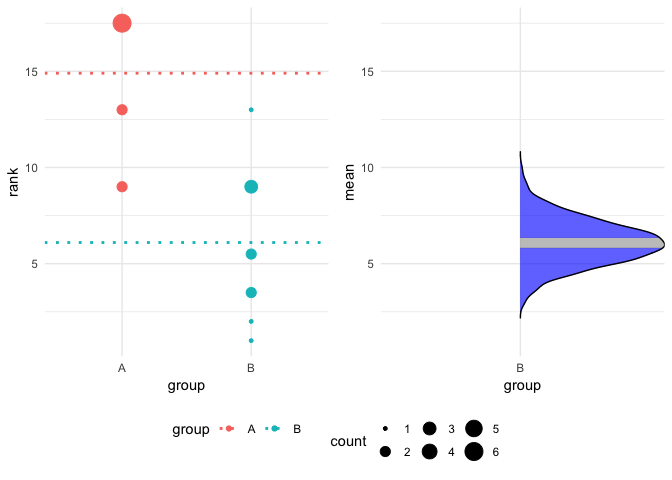
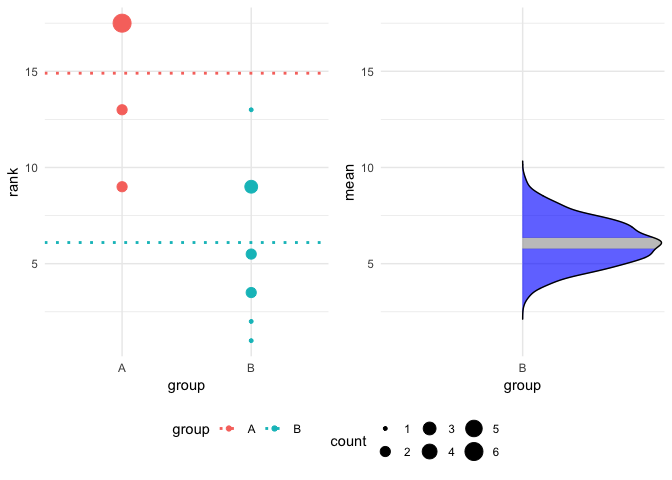
fix readme

diff --git a/Readme.md b/Readme.md
@@ -4,7 +4,7 @@ Dan MacLean
 12/06/2019
 
 <!-- badges: start --> ![Travis build
-status](https://travis-ci.org/TeamMacLean/besthr.svg?branch=master)\](<https://travis-ci.org/TeamMacLean/besthr>)
+status](https://travis-ci.org/TeamMacLean/besthr.svg?branch=master)
 
 <!-- badges: end -->
 
@@ -52,7 +52,7 @@ hr_est_1
     ## Unpaired mean rank difference of A (14.9, n=10) minus B (6.1, n=10)
     ##  8.8
     ## Confidence Intervals (0.025, 0.975)
-    ##  4.3475, 8.32625
+    ##  3.795, 7.52625
     ## 
     ## 100 bootstrap resamples.
 
@@ -60,7 +60,7 @@ hr_est_1
 plot(hr_est_1)
 ```
 
-    ## Picking joint bandwidth of 0.397
+    ## Picking joint bandwidth of 0.361
 
 ![](Readme_files/figure-gfm/unnamed-chunk-1-1.png)<!-- -->
 
@@ -125,7 +125,7 @@ hr_est_1
     ## Unpaired mean rank difference of A (14.9, n=10) minus B (6.1, n=10)
     ##  8.8
     ## Confidence Intervals (0.025, 0.975)
-    ##  3.9475, 8.7075
+    ##  3.77375, 8.255
     ## 
     ## 100 bootstrap resamples.
 
@@ -133,7 +133,7 @@ hr_est_1
 plot(hr_est_1)
 ```
 
-    ## Picking joint bandwidth of 0.459
+    ## Picking joint bandwidth of 0.414
 
 ![](Readme_files/figure-gfm/unnamed-chunk-3-1.png)<!-- -->
 
@@ -147,7 +147,7 @@ estimate(hr_data_1, score, group, control = "B" ) %>%
   plot()
 ```
 
-    ## Picking joint bandwidth of 0.374
+    ## Picking joint bandwidth of 0.412
 
 ![](Readme_files/figure-gfm/unnamed-chunk-4-1.png)<!-- -->
 
@@ -160,7 +160,7 @@ estimate(hr_data_1, score, group, control = "A", nits = 1000, low = 0.4, high = 
   plot()
 ```
 
-    ## Picking joint bandwidth of 0.255
+    ## Picking joint bandwidth of 0.26
 
 ![](Readme_files/figure-gfm/unnamed-chunk-5-1.png)<!-- -->
 
@@ -212,12 +212,12 @@ hr_est_3
     ## Unpaired mean rank difference of A (5, n=3) minus B (2, n=3)
     ##  3
     ## Confidence Intervals (0.025, 0.975)
-    ##  1, 3
+    ##  1.33333333333333, 2.66666666666667
     ## 
     ## Unpaired mean rank difference of A (5, n=3) minus C (8, n=3)
     ##  -3
     ## Confidence Intervals (0.025, 0.975)
-    ##  7.33333333333333, 9
+    ##  7, 8.66666666666667
     ## 
     ## 100 bootstrap resamples.
 
@@ -225,7 +225,7 @@ hr_est_3
 plot(hr_est_3)
 ```
 
-    ## Picking joint bandwidth of 0.172
+    ## Picking joint bandwidth of 0.156
 
 ![](Readme_files/figure-gfm/unnamed-chunk-6-1.png)<!-- -->
 
@@ -241,6 +241,6 @@ hr_est_3 %>%
   plot(which = "just_data")
 ```
 
-    ## Picking joint bandwidth of 0.172
+    ## Picking joint bandwidth of 0.156
 
 ![](Readme_files/figure-gfm/unnamed-chunk-7-1.png)<!-- -->
